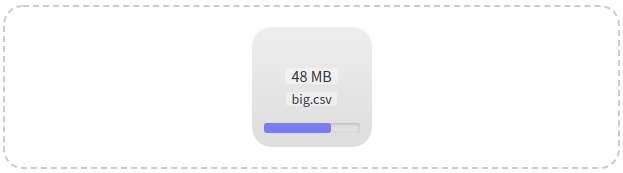
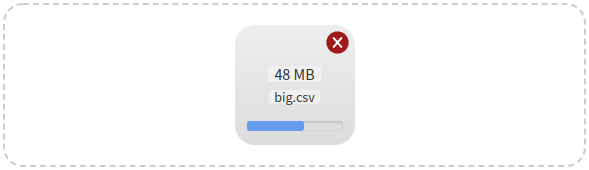
Refactor :rocket:

diff --git a/docs/src/components/screens/docs/CSVToJSON.js b/docs/src/components/screens/docs/CSVToJSON.js
@@ -37,30 +37,26 @@ const CSVToJSON = () => {
             <code className='language-javascript'>
               {`<CSVReader
   ref={buttonRef}
-  onFileLoad={this.handleOnFileLoad}
+  onFileLoad={this.handleOnDrop}
   onError={this.handleOnError}
   noClick
   noDrag
   config={{}}
   style={{}}
->
-  {({file}) => (
-    <aside
-      style={{
-        display: 'flex',
-        flexDirection: 'row',
-        marginBottom: 10,
-      }}
-    >
+  onRemoveFile={this.handleOnRemoveFile}
+  >
+  {({ file }) => (
+    <aside>
       <button
-        type="button"
+        type='button'
         onClick={this.handleOpenDialog}
       >
-        Browe file
+          Browe file
       </button>
       <div>
-        {file.name}
+        {file && file.name}
       </div>
+      <button onClick={this.handleRemoveFile}>Remove</button>
     </aside>
   )}
 </CSVReader>
@@ -91,11 +87,13 @@ const CSVToJSON = () => {
         <div className='grid-50'>
           <pre>
             <code className='language-javascript'>
-              {`<CSVReader 
+              {`<CSVReader
   onDrop={this.handleOnDrop}
   onError={this.handleOnError}
   style={{}}
   config={{}}
+  addRemoveButton
+  onRemoveFile={this.handleOnRemoveFile}
 >
   <span>Drop CSV file here or click to upload.</span>
 </CSVReader>
@@ -111,6 +109,7 @@ const CSVToJSON = () => {
             <li><code>config</code> is a <a href='#config'>config object</a> which contains a callback.</li>
             <li><code>progressBarColor</code> is a property to be used to set the color of progress bar (for example, <code>progressBarColor='#659cef'</code>).</li>
             <li><code>style</code> is some styles to be applied to the <code>{'<input>'}</code> element.</li>
+            <li><code>addRemoveButton</code> If true, this will add a button to remove or cancel (if already uploading) the file.</li>
             <li>Doesn't return anything. Results are provided asynchronously to a callback function.</li>
           </ul>
         </div>
@@ -129,6 +128,8 @@ const CSVToJSON = () => {
   noClick
   style={{}}
   config={{}}
+  addRemoveButton
+  onRemoveFile={this.handleOnRemoveFile}
 >
   <span>Drop CSV file here to upload.</span>
 </CSVReader>
@@ -145,6 +146,7 @@ const CSVToJSON = () => {
             <li><code>config</code> is a <a href='#config'>config object</a> which contains a callback.</li>
             <li><code>progressBarColor</code> is a property to be used to set the color of progress bar (for example, <code>progressBarColor='#659cef'</code>).</li>
             <li><code>style</code> is some styles to be applied to the <code>{'<input>'}</code> element.</li>
+            <li><code>addRemoveButton</code> If true, this will add a button to remove or cancel (if already uploading) the file.</li>
             <li>Doesn't return anything. Results are provided asynchronously to a callback function.</li>
           </ul>
         </div>
@@ -163,6 +165,8 @@ const CSVToJSON = () => {
   noDrag
   style={{}}
   config={{}}
+  addRemoveButton
+  onRemoveFile={this.handleOnRemoveFile}
 >
   <span>Click to upload.</span>
 </CSVReader>
@@ -179,6 +183,7 @@ const CSVToJSON = () => {
             <li><code>config</code> is a <a href='#config'>config object</a> which contains a callback.</li>
             <li><code>progressBarColor</code> is a property to be used to set the color of progress bar (for example, <code>progressBarColor='#659cef'</code>).</li>
             <li><code>style</code> is some styles to be applied to the <code>{'<input>'}</code> element.</li>
+            <li><code>addRemoveButton</code> If true, this will add a button to remove or cancel (if already uploading) the file.</li>
             <li>Doesn't return anything. Results are provided asynchronously to a callback function.</li>
           </ul>
         </div>

diff --git a/src/CSVReader.js b/src/CSVReader.js
@@ -268,6 +268,7 @@ export default class CSVReader extends React.Component {
   open = e => {
     const { displayProgressBarStatus } = this.state
     if (e && displayProgressBarStatus === 'none') {
+      e.preventDefault()
       e.stopPropagation()
       this.inputFileRef.current.value = null
       this.inputFileRef.current.click()
@@ -307,24 +308,25 @@ export default class CSVReader extends React.Component {
       displayProgressBarStatus
     } = this.state
 
-    if (addRemoveButton && displayProgressBarStatus === 'none') {
+    if (addRemoveButton) {
+      if (addRemoveButton && displayProgressBarStatus === 'none') {
+        return (
+          <div
+            style={styles.dropFileRemoveButton}
+            onClick={(e) => this.removeFile(e)}
+            onMouseOver={() => this.changeRemoveIconColor(RED_LIGHT)}
+            onMouseOut={() => this.changeRemoveIconColor(RED)}
+          >
+            <RemoveIcon color={removeIconColor} />
+          </div>
+        )
+      }
       return (
-        <div
-          style={styles.dropFileRemoveButton}
-          onClick={(e) => this.removeFile(e)}
-          onMouseOver={() => this.changeRemoveIconColor(RED_LIGHT)}
-          onMouseOut={() => this.changeRemoveIconColor(RED)}
-        >
-          <RemoveIcon color={removeIconColor} />
+        <div style={styles.dropFileRemoveButton}>
+          <RemoveIcon color={RED} />
         </div>
       )
     }
-
-    return (
-      <div style={styles.dropFileRemoveButton}>
-        <RemoveIcon color={RED} />
-      </div>
-    )
   }
 
   render() {

diff --git a/docs/src/components/screens/Demo.js b/docs/src/components/screens/Demo.js
@@ -226,7 +226,6 @@ export default class Demo extends Component {
                           onError={this.handleOnError}
                           noClick
                           noDrag
-                          addRemoveButton
                           onRemoveFile={this.handleOnRemoveFile}
                         >
                           {({ file }) => (

diff --git a/demo/CSVReader1.js b/demo/CSVReader1.js
@@ -44,7 +44,6 @@ export default class CSVReader1 extends Component {
           onError={this.handleOnError}
           noClick
           noDrag
-          addRemoveButton
           onRemoveFile={this.handleOnRemoveFile}
         >
           {({ file }) => (

diff --git a/docs/src/components/screens/indexes/LocalFile.js b/docs/src/components/screens/indexes/LocalFile.js
@@ -72,7 +72,6 @@ export default class CSVReader extends Component {
         onError={this.handleOnError}
         noClick
         noDrag
-        addRemoveButton
         onRemoveFile={this.handleOnRemoveFile}
       >
         {({ file }) => (

diff --git a/README.md b/README.md
@@ -117,7 +117,6 @@ export default class CSVReader extends Component {
         onError={this.handleOnError}
         noClick
         noDrag
-        addRemoveButton
         onRemoveFile={this.handleOnRemoveFile}
       >
         {({ file }) => (
